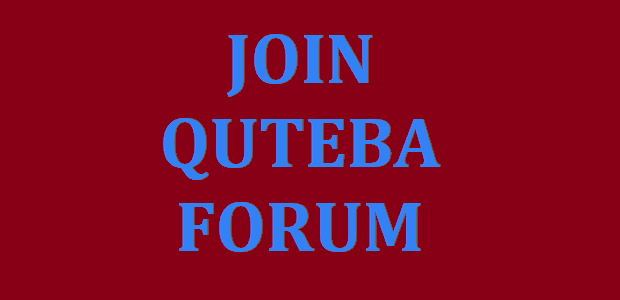
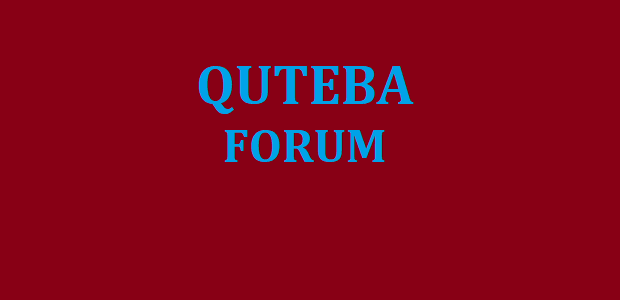
Change images in home page

Changed region(s): [[0.2452, 0.09, 0.7048, 0.6], [0.2758, 0.66, 0.6742, 0.84]]

diff --git a/home/templates/home/index.html b/home/templates/home/index.html
@@ -17,22 +17,19 @@
     <div class="carousel-item active" data-bs-interval="10000">
       <img src="{% get_media_prefix %}welcome.png" class="d-block w-100" alt="">
       <div class="carousel-caption d-none d-md-block">
-        <h5>Welcome to Quteba</h5>
-        <p>Your economic information exchange hub.</p>
+        <h5><a class="btn btn-lg text-white bg-primary rounded" href="#home-blog">Explore</a></h5>
       </div>
     </div>
     <div class="carousel-item" data-bs-interval="2000">
       <img src="{% get_media_prefix %}visit-qblog.png" class="d-block w-100" alt="">
       <div class="carousel-caption d-none d-md-block">
-        <h5><a class="btn btn-lg text-white bg-danger rounded" href="{% url 'blog' %}">Qblog</a></h5>
-        <p>Quteba blog for your deeper understanding of the economy.</p>
+        <h5><a class="btn btn-lg text-white bg-danger rounded" href="{% url 'blog' %}">Visit Qblog</a></h5>
       </div>
     </div>
     <div class="carousel-item">
       <img src="{% get_media_prefix %}join-qforum.png" class="d-block w-100" alt="">
       <div class="carousel-caption d-none d-md-block text-white">
-        <h5><a class="btn btn-lg text-white bg-black rounded" href="{% url 'qforum:threads' %}">Qforum</a></h5>
-        <p>Quteba forum to discuss any economics topic.</p>
+        <h5><a class="btn btn-lg text-white bg-black rounded" href="{% url 'qforum:threads' %}">Join Qforum</a></h5>
       </div>
     </div>
   </div>
@@ -46,7 +43,7 @@
   </button>
 </div>
 <!-- Recent stories section -->
-<div class="container-fluid bg-secondary mb-0">
+<div class="container-fluid bg-secondary mb-0" id="home-blog">
   <div class="row blog-cards">
     <div class="col-12 mt-4 mb-4 left">
       <h1 class="text-center">RECENT STORIES</h1>

diff --git a/qforum/templates/qforum/thread_list.html b/qforum/templates/qforum/thread_list.html
@@ -4,28 +4,7 @@
 
 {% block details %}
 <div class="row mb-5">
-  <div class="col-md-6 mb-3 mb-sm-0">
-    <div class="dropdown bootstrap-select bg-white">
-      <select class="form-control form-control bg-white" data-toggle="select">
-        <option value="" disabled selected> Categories </option>
-        {% for category in category_list %}
-        <option> {{category.subject}} </option>
-        {% endfor %}
-      </select>
-    </div>
-  </div>
-  <div class="col-md-6">
-    <div class="text-lg-right">
-      <div class="dropdown bootstrap-select bg-white">
-        <select class="form-control form-control bg-white" data-toggle="select" tabindex="-98">
-          <option class="text-muted"> Sort by </option>
-          <option> Most Popular </option>
-          <option> Recently Created </option>
-          <option> Active </option>
-        </select>
-      </div>
-    </div>
-  </div>
+
 <div class="row mb-5">
   <div class="col-md-12 bg-white">
     <h5 class="btn text-primary" id="btn-create-forum" data-bs-toggle="collapse" data-bs-target="#thread-form"

diff --git a/README.md b/README.md
@@ -38,6 +38,7 @@ The Agile approach was key to the successful completion of this project. I start
 
 - I took the data model for the forum from [this article](https://vertabelo.com/blog/database-model-for-an-online-discussion-forum-part-1/).
 - I followed [this tutorial](https://focusustech.com/blog/create-a-comment-and-reply-system-in-django) to modify forum views and templates.
+- I followed [this tutorial](https://learndjango.com/tutorials/django-search-tutorial) to implement search functionality.
 #
 #
 
